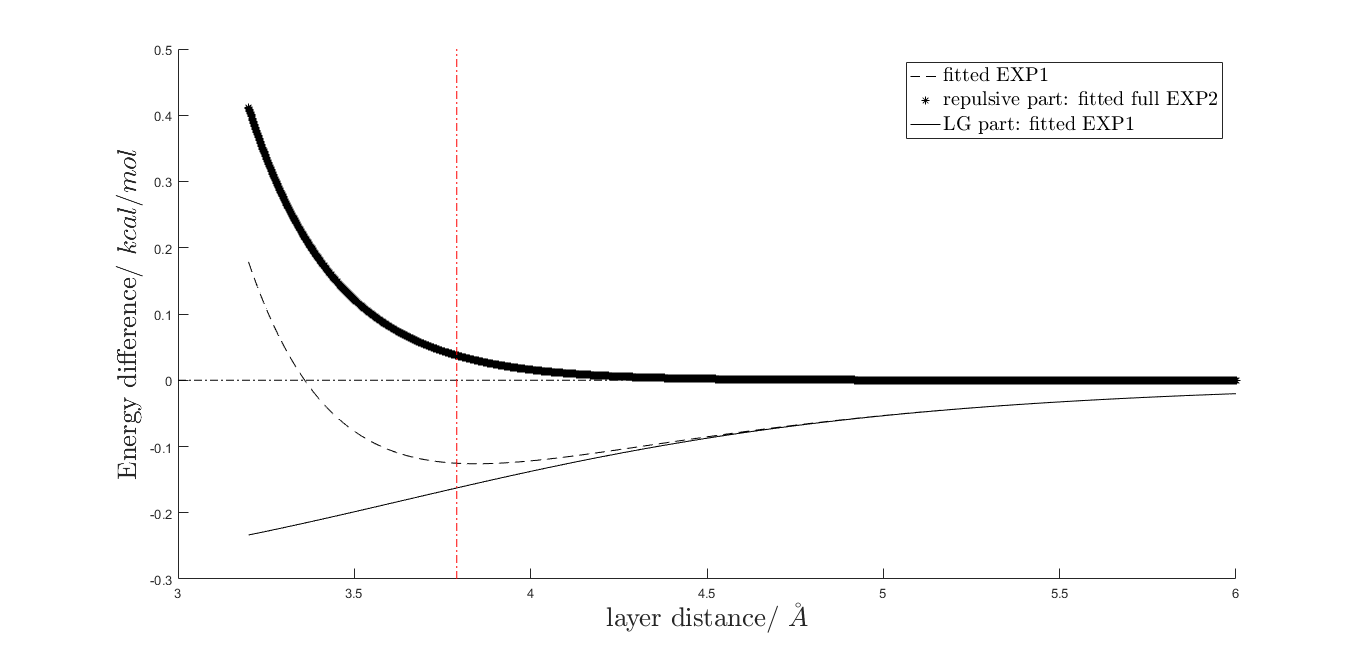
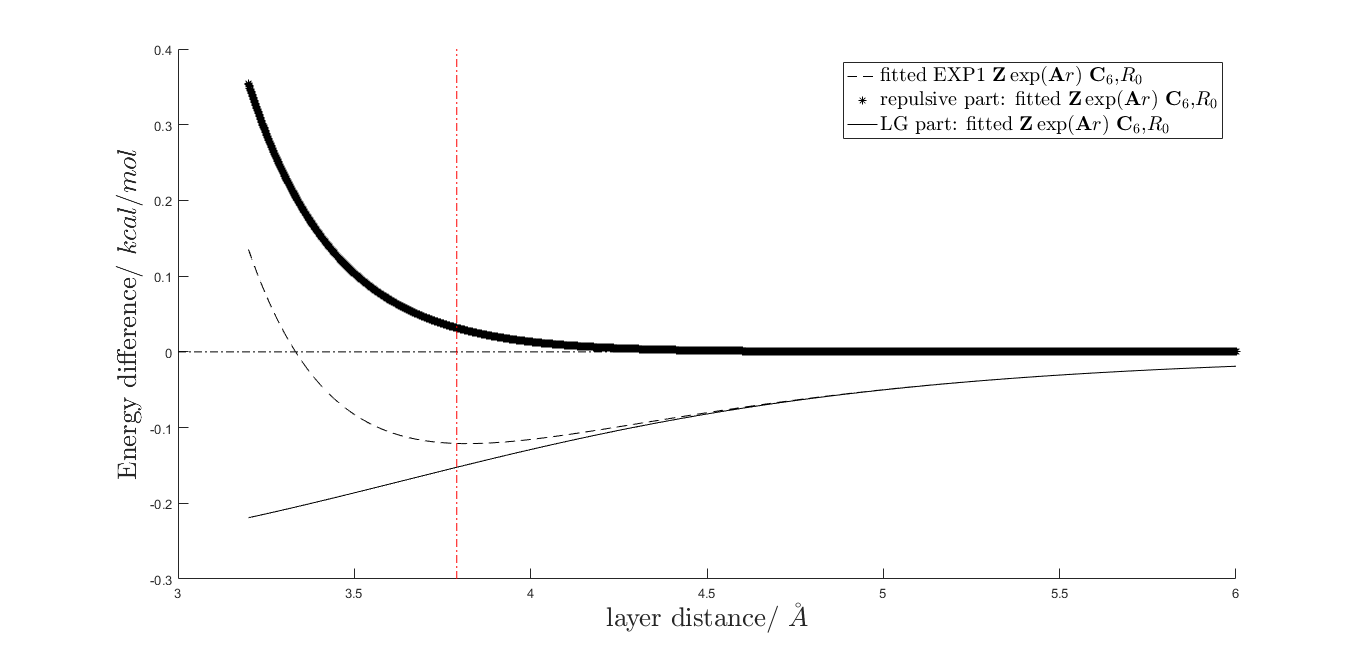
updating data spltting plots

diff --git a/data/potential_split.m b/data/potential_split.m
@@ -104,14 +104,14 @@ set(h, 'fontweight', 'bold');
 %%% potential VOP single
 figure; hold on;
 rr2 = 0.5: 0.01: 6;
-single_para = [31.5659 -4.0699 8.6854 0 0 0 1];
+single_para = [29.8268 -4.0996 8.6854 0 0 0 1];
 
 ry = repFUNC(single_para, rr);
 plot_repEXP1 = plot(rr ,ry, 'k*');
 
 
 
-ay = atrFUN([1011.5138 3.85], rr); 
+ay = atrFUN([948.5887 3.85], rr); 
 plot_atrEXP1 = plot(rr, ay, 'k-');
 
 yy = ay + ry;
@@ -123,9 +123,9 @@ plot([beta1 beta1], ylim, 'r-.');
 h = legend([plot_EXP1, ...
     plot_repEXP1, ...
     plot_atrEXP1], ...
-    'fitted EXP1', ...
-    'repulsive part: fitted full EXP2', ...
-    'LG part: fitted EXP1' ...
+    'fitted EXP1 $\textbf{Z}\exp(\textbf{A}r)$ $\textbf{C}_6$,$R_0$', ...
+    'repulsive part: fitted $\textbf{Z}\exp(\textbf{A}r)$ $\textbf{C}_6$,$R_0$', ...
+    'LG part: fitted $\textbf{Z}\exp(\textbf{A}r)$ $\textbf{C}_6$,$R_0$'  ...
     );
 
 
@@ -147,13 +147,13 @@ set(h, 'fontweight', 'bold');
 figure; hold on;
 
 rr2=0.5: 0.01: 6;
-full_para=[39.8367 -3.8383   8.6937 -0.2531 0.7508  -0.4985  1];
+full_para=[38.7635 -3.8605 8.6515 -0.1999 0.7387 -0.4612  1];
 ry=repFUNC(full_para, rr);
 plot_repEXP2 = plot(rr ,ry, 'b*');
 
 
 
-ay = atrFUN([955.1573 3.85], rr); 
+ay = atrFUN([937.7635 3.85], rr); 
 plot_atrEXP2 = plot(rr, ay, 'b-');
 
 yy = ay + ry;
@@ -163,9 +163,9 @@ plot([3.7934 3.7934], ylim, 'r-.');
 h = legend([plot_EXP2, ...
     plot_repEXP2, ...
     plot_atrEXP2], ...
-    'fitted full EXP2', ...
-    'repulsive part: fitted full EXP2', ...
-    'LG part: full fitted EXP2');
+    'fitted $\textbf{Z}\exp(\textbf{A}r)\cdot\exp(-\textbf{C}r^\textbf{n}+\textbf{D}r)$ $\textbf{C}_6$,$R_0$', ...
+    'repulsive part: fitted $\textbf{Z}\exp(\textbf{A}r)\cdot\exp(-\textbf{C}r^\textbf{n}+\textbf{D}r)$ $\textbf{C}_6$,$R_0$', ...
+    'LG part: full fitted $\textbf{Z}\exp(\textbf{A}r)\cdot\exp(-\textbf{C}r^\textbf{n}+\textbf{D}r)$ $\textbf{C}_6$,$R_0$');
 
 
 set(h,'interpreter','latex');
@@ -190,7 +190,7 @@ set(h, 'fontsize', 15);
 %     'LG part: X6 ', ...
 %     'LG part: original $$C_6$$ from $$H_2O$$ , initialization', ...
 %     'fitted EXP1', ...
-%     'repulsive part: fitted full EXP2', ...
+%     'repulsive part: fitted $\textbf{Z}\exp(\textbf{A}r)\cdot\exp(-\textbf{C}r^\textbf{n}+\textbf{D}r)$ $\textbf{C}_6$,$R_0$', ...
 %     'LG part: fitted EXP1', ...
 %     'fitted full EXP2', ...
 %     'repulsive part: fitted full EXP2', ...
